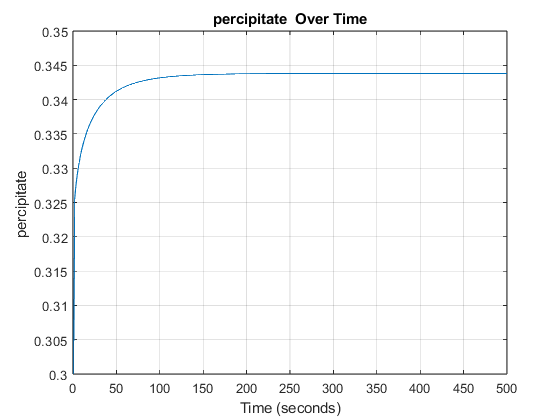
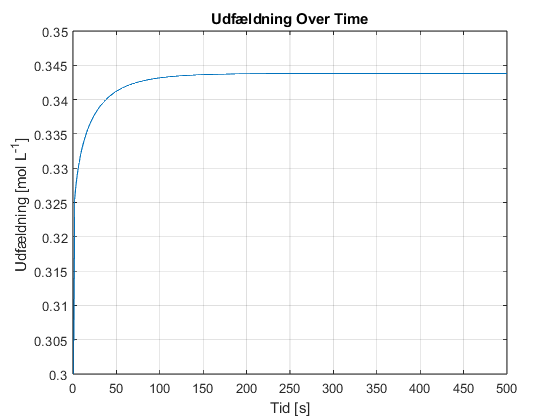
udfældning

diff --git a/Jv_Graphs.m b/Jv_Graphs.m
@@ -29,26 +29,19 @@ grid on;
 
 legend('Step 1', 'Step 2', 'Step 3', 'Step 4');
 
-%%new graph
+%% new graph
+
 figure;
-plot(x, Jv_values3, 'LineWidth', 1.5);
+yyaxis left
+    plot(x, Jv_values2, 'LineWidth', 1.5);
+    plot(x, Jv_values3, 'LineWidth', 1.5);
+
+yyaxis right
+    plot(x, Jv_values4, 'LineWidth', 1.5);
+
 xlabel('Time (seconds)');
 ylabel('Jv (Velocity)');
 title('Jv (Velocity) Over Time 3');
 grid on;
-%ylim([, ])
-ax = gca;
-ax.YAxis.Exponent = -5;
-legend('Step 3');
-
-figure;
-plot(x, Jv_values4, 'LineWidth', 1.5);
-xlabel('Time (seconds)');
-ylabel('Jv (Velocity)');
-title('Jv (Velocity) Over Time 4');
-grid on;
-%ylim([, ])
-ax = gca;
-ax.YAxis.Exponent = -5;
-legend('Step 4');
+legend('Step 2', 'Step 3', 'Step 4');
 

diff --git a/step4.m b/step4.m
@@ -124,9 +124,9 @@ grid on;
 
 figure;
 plot(t, P_values);
-xlabel('Time (seconds)');
-ylabel('percipitate ');
-title('percipitate  Over Time');
+xlabel('Tid [s]');
+ylabel('Udfældning [mol L^{-1}] ');
+title('Udfældning Over Time');
 grid on;
 ylim([0.3, 0.35]);
 
